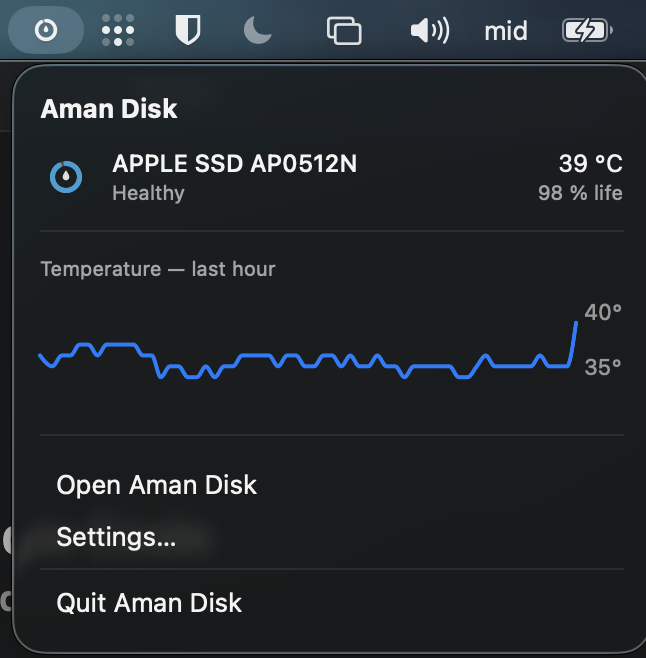
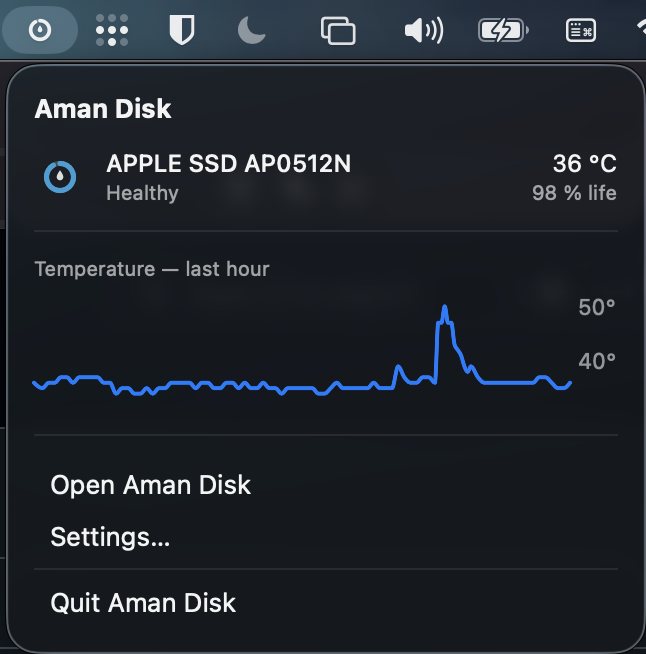
docs: English changelog and issue templates, new menu bar screenshot

diff --git a/CHANGELOG.md b/CHANGELOG.md
@@ -1,22 +1,22 @@
-# Journal des modifications
+# Changelog
 
 ## 0.9.1
 
-- **Activation de S.M.A.R.T.** : sur un disque SATA où S.M.A.R.T. est désactivé, Aman l'active une seule fois (réglage « Activer S.M.A.R.T. automatiquement s'il est désactivé », activé par défaut), puis relit le disque. L'activation est notée dans le journal du disque. En cas d'échec, le code d'erreur s'affiche avec un bouton « Réessayer » ; aucune nouvelle tentative automatique. Réglage désactivé : bouton « Activer S.M.A.R.T.… » avec confirmation.
-- **Menu Aide** : « Voir les nouvelles versions… » ouvre la page des versions sur GitHub, sans vérification réseau dans l'app.
-- Modèles de signalement sur GitHub.
+- **Turning on S.M.A.R.T.**: on a SATA drive where S.M.A.R.T. is turned off, Aman turns it on once (setting “Turn on S.M.A.R.T. automatically if it's off”, on by default), then reads the drive again. The event is added to the drive's log. If it fails, the error code is shown with a “Try Again” button; there is never an automatic retry. With the setting off, a “Turn On S.M.A.R.T.…” button asks for confirmation first.
+- **Help menu**: “Check for New Versions…” opens the releases page on GitHub. The app itself never checks the network.
+- GitHub issue templates.
 
 ## 0.9.0
 
-Première version publique.
+First public release.
 
-- **Santé NVMe et ATA/AHCI** : lecture S.M.A.R.T. des SSD NVMe, des SSD Apple PCIe AHCI et des disques SATA ; état « En bonne santé », « À surveiller » ou « Défaillance probable », anneau de santé et durée de vie restante quand le disque la fournit.
-- **Attributs expliqués en français**, convertis dans leur unité, ou en hexadécimal brut à la demande.
-- **Historique de température** : une mesure toutes les 30 s, 24 h en pleine résolution puis 30 jours en moyennes ; courbes sur 1 h, 24 h, 7 jours et 30 jours.
-- **Test de performances** séquentiel et aléatoire ; le fichier de test est toujours supprimé.
-- **Surveillance continue** et **barre des menus** : état et température de chaque disque interne ; l'app peut y rester quand la fenêtre est fermée.
-- **Icône du Dock vivante** qui suit la santé du disque de démarrage.
-- **Alertes** : changement d'état, surchauffe prolongée, durée de vie sous 50 %, 25 % ou 10 %.
-- **Rapports** PDF, texte ou JSON, numéro de série masqué par défaut ; **export du diagnostic** pour les disques non reconnus.
-- **Réglages** : langue (anglais, français), barre des menus, ouverture à la connexion, Dock, alertes, historique.
-- Binaire universel (Apple Silicon et Intel), macOS 14 ou plus récent ; aucune connexion réseau.
+- **NVMe and ATA/AHCI health**: S.M.A.R.T. data from NVMe SSDs, Apple PCIe AHCI SSDs and SATA drives; “Healthy”, “Needs attention” or “Likely failing” status, health ring, and remaining life when the drive reports it.
+- **Attributes explained**, converted to their unit, or shown as raw hexadecimal on request.
+- **Temperature history**: one reading every 30 s, 24 h at full resolution, then 30 days of averages; charts over 1 h, 24 h, 7 days and 30 days.
+- **Performance test**, sequential and random; the test file is always deleted.
+- **Continuous monitoring** and **menu bar**: status and temperature of each internal drive; the app can stay there when its window is closed.
+- **Live Dock icon** that follows the health of the startup drive.
+- **Alerts**: status change, prolonged overheating, remaining life below 50 %, 25 % or 10 %.
+- **Reports** in PDF, text or JSON, with the serial number masked by default; **diagnostic export** for unrecognized drives.
+- **Settings**: language (English, French), menu bar, open at login, Dock, alerts, history.
+- Universal binary (Apple Silicon and Intel), macOS 14 or later; no network connection.
